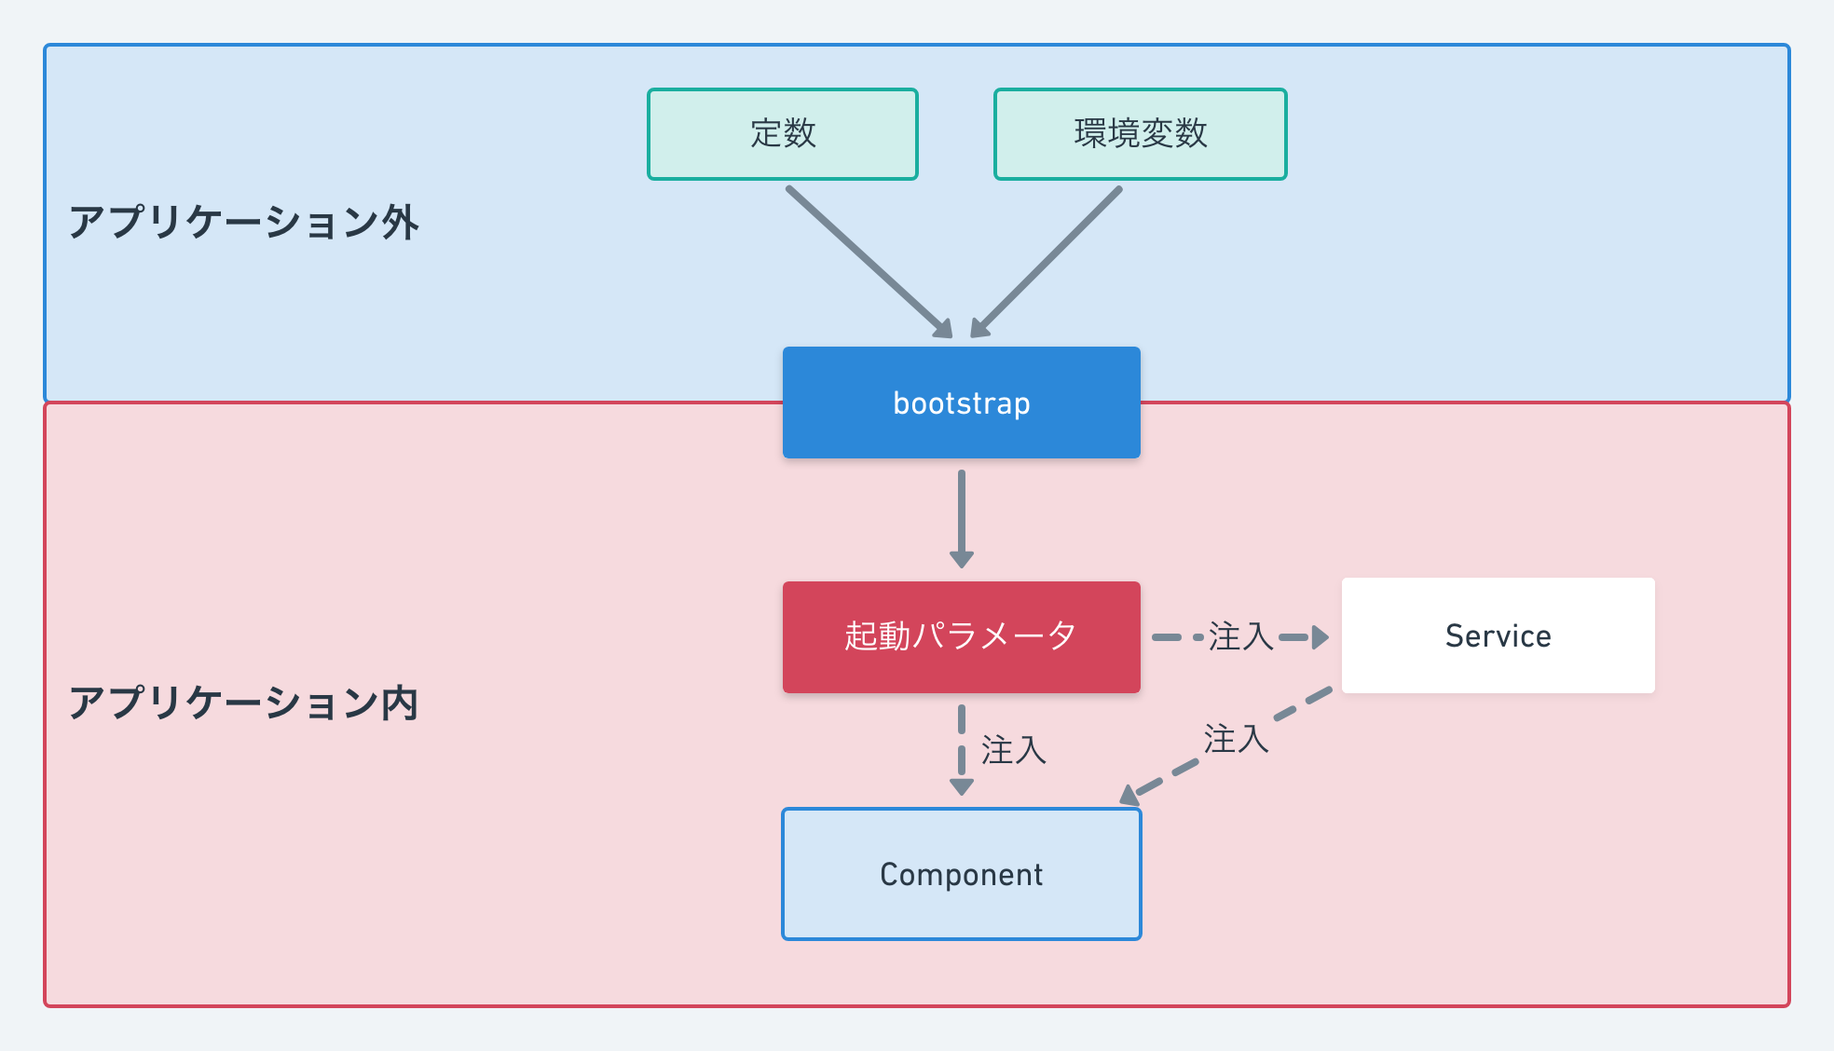
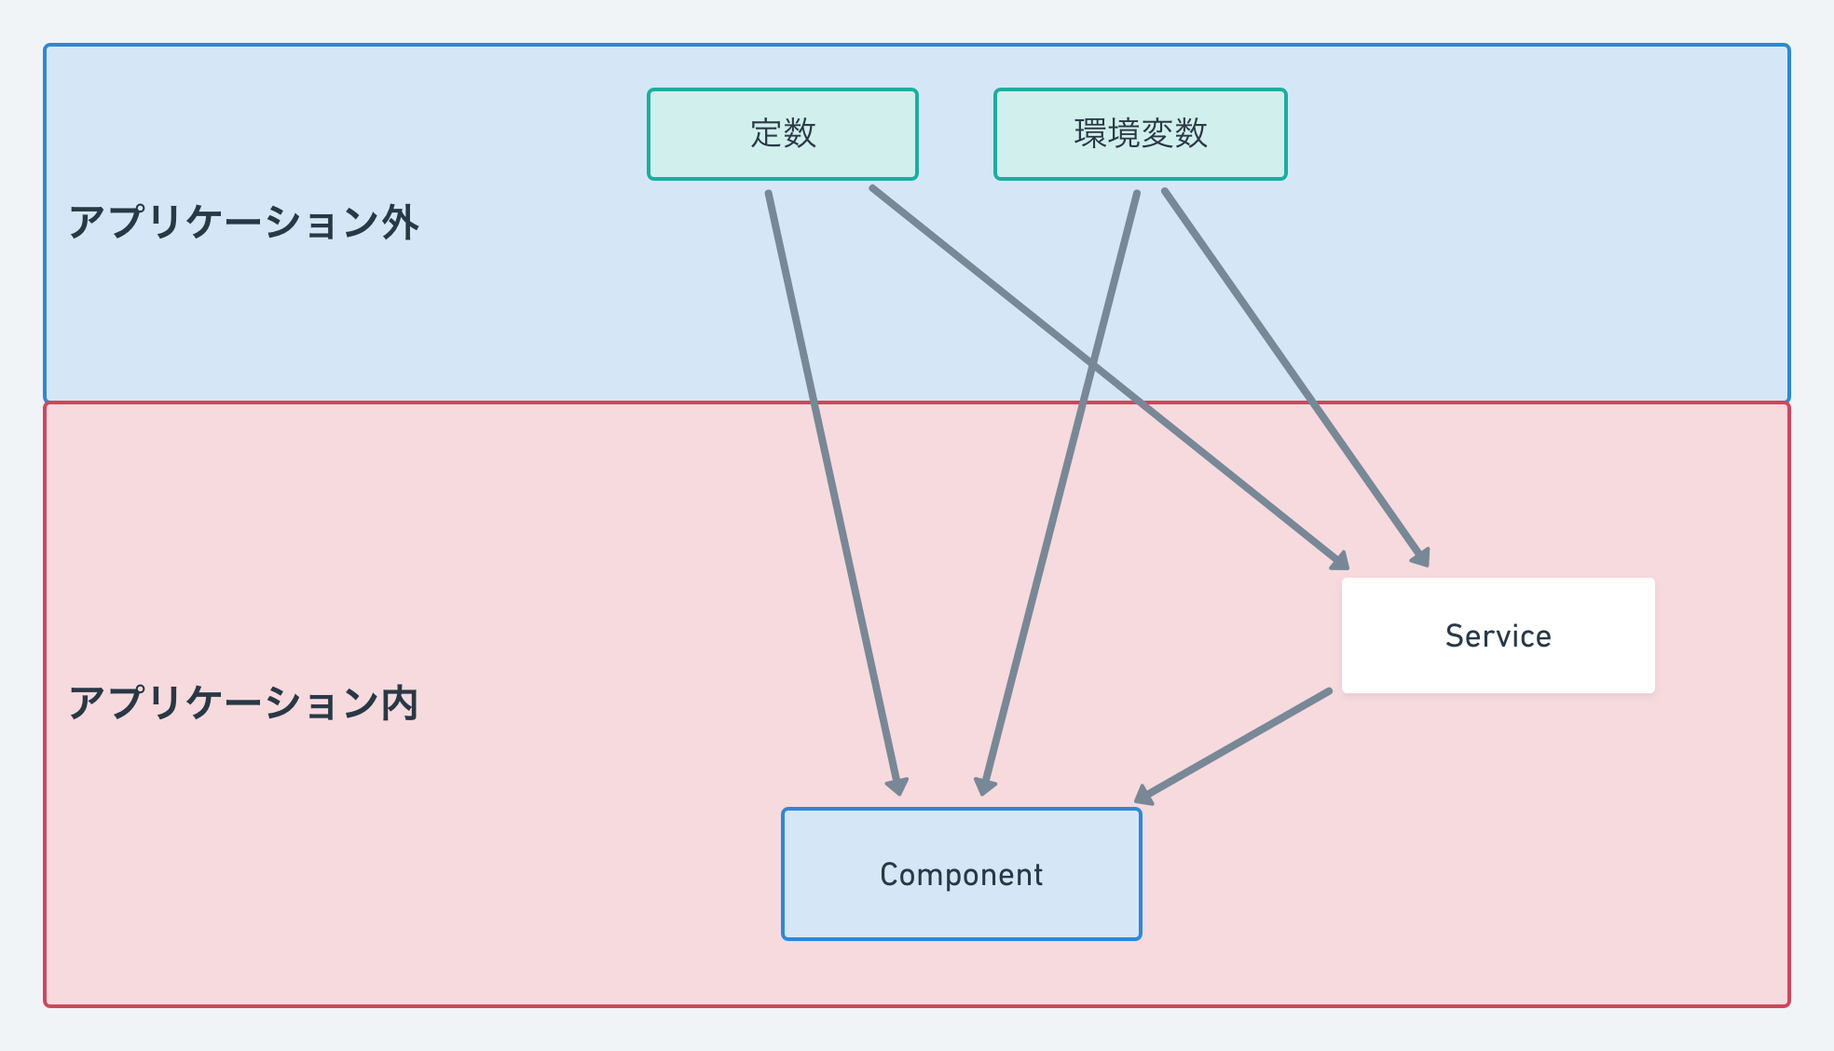
GitBook: [master] 5 pages and 10 assets modified

diff --git a/dependency-injection/provider-types-and-choice.md b/dependency-injection/provider-types-and-choice.md
@@ -1,0 +1,188 @@
+# プロバイダーの種類と選び方
+
+この章の内容を理解するには以下の前提知識が必要です。
+
+* [公式チュートリアルのサービスの章](https://angular.jp/tutorial/toh-pt4)を理解していること
+* Angularの[依存性の注入](https://angular.jp/guide/dependency-injection)の概要を理解していること
+* Angularの[DIプロバイダー](https://angular.jp/guide/dependency-injection-providers)の概要を理解していること
+
+AngularのDIには4種類のプロバイダーがあります。それぞれに目的があり、適した用途があります。チュートリアルでは述べられていない、プロバイダーの選び方の指針を理解しましょう。
+
+## Q. 提供したいものはオブジェクトですか？
+
+提供したいものがクラスのインスタンスではなく単なるオブジェクトなら、アプリケーションコンフィグの章で述べたように  `InjectionToken` をトークンとする**値プロバイダー**を使いましょう。
+
+{% page-ref page="app-config.md" %}
+
+```typescript
+import { InjectionToken } from '@angular/core';
+
+export const SOME_VALUE = new InjectionToken('someValue', {
+  providedIn: 'root',
+  factory: () => someValue,
+});
+```
+
+## Q. 提供したいものは関数の戻り値ですか？
+
+実行時に値が確定する動的なオブジェクトを提供したい場合には2つの選択肢があります。ひとつはシンプルに**あなたが**関数を呼び出し、その戻り値を **値プロバイダー** に渡す方法です。もうひとつは、**ファクトリープロバイダー** を使って、Angularに**値の作り方**を教える方法です。次の例では2つのプロバイダーは実質的に同じ結果を生みます。
+
+```typescript
+import { InjectionToken } from '@angular/core';
+
+export function getSomeValue(): SomeValue {
+  return someValue;
+}
+
+export const SOME_VALUE_1 = new InjectionToken<SomeValue>('someValue', {
+  providedIn: 'root',
+  factory: () => getSomeValue(), // 関数の結果をAngularに渡します
+});
+
+export const SOME_VALUE_2 = new InjectionToken<SomeValue>('someValue', {
+  providedIn: 'root',
+  factory: getSomeValue, // ファクトリー関数をAngularに渡します    
+});
+```
+
+もしファクトリー関数が依存する引数が完全にAngularから切り離されている場合は、結果だけをアプリケーションに関連付ける値プロバイダーのほうがシンプルに済むでしょう。それはつまり、 `getSomeValue` 関数がAngularに依存しないユニットテストを記述できる状態だということです。
+
+逆に、ファクトリー関数がひとつでも**Angularやアプリケーションが提供する他のサービスへの依存性**をもつ場合、つまり**ファクトリー関数の引数でDIをおこないたい**ときにはファクトリープロバイダー以外の選択肢はありません。次の例では、Angularの `PLATFORM_ID` APIに依存した関数をファクトリープロバイダーに渡しています。ファクトリー関数内で依存性を注入するには `inject` 関数を使います。
+
+```typescript
+import { InjectionToken, inject, PLATFORM_ID } from '@angular/core';
+import { isPlatformBrowser } from '@angular/common';
+
+export function getSomeValue(): SomeValue {
+  const platformId = inject(PLATFORM_ID); // 依存性の注入をおこなう
+  if (isPlatformBrowser(platformId)) {
+    return someValueForBrowser;
+  }
+  return someValue;
+}
+
+export const SOME_VALUE = new InjectionToken<SomeValue>('someValue', {
+  providedIn: 'root',
+  factory: getSomeValue,
+});
+```
+
+{% hint style="warning" %}
+ファクトリープロバイダーはどんな値でも自由に解決して提供できる強力なプロバイダーですが、その分ソースコードの可読性やメンテナンス性を損なう危険性もあります。**ファクトリープロバイダーでないと解決できないものはほとんどありません。**
+
+基本的には、**依存性を持てない値プロバイダー**と、**すべての依存性をDIで解決できるクラスプロバイダー**の2つだけを使うように心がけることを推奨します。
+{% endhint %}
+
+## Q. 提供したいものはクラスインスタンスですか？
+
+クラスインスタンスを提供したい場合には3つの選択肢があります。第一に**クラスプロバイダー**を利用してインスタンス化をAngularに委譲する方法、第二に**ファクトリープロバイダー**を使ってあなたがインスタンス化をおこなう方法、第三にあなたがインスタンス化したインスタンスオブジェクトを**値プロバイダー**で提供する方法です。しかし、**原則として常にクラスプロバイダーを使うべき**です。なぜならクラスプロバイダーで提供可能な状態にクラスを保つことが結果的にアプリケーションのテスタビリティやモジュール性を維持することにつながるからです。
+
+{% hint style="info" %}
+サードパーティSDKの抽象化の例のように、プラットフォームに依存するプロバイダーについては例外的な実装が好ましい場面もあります。
+{% endhint %}
+
+{% page-ref page="external-sdk-abstraction.md" %}
+
+### シンプルなクラスプロバイダー
+
+クラスの**コンストラクタ引数がすべてDIで解決できる**場合、あるいは**コンストラクタ引数を持たない**場合は、クラスに `@Injectable` デコレーターを付与するだけで、ファクトリー関数について考慮する必要はありません。
+
+```typescript
+import { Injectable } from '@angular/core';
+
+@Injectable({ providedIn: 'root' })
+export class SomeClassWithDeps {
+  constructor(childDep: ChildDep) {}
+}
+
+@Injectable({ providedIn: 'root' })
+export class SomeClassWithoutDeps {
+  constructor() {}
+}
+```
+
+### DIで解決できない引数があるときには？
+
+クラスの中にはDIで解決できないコンストラクタ引数を受け取りたいものもあります。たとえば `window` や `document` のようなオブジェクトや、環境変数などから導かれる設定値が考えられます。そのようなクラスは、理論的には次のようにファクトリープロバイダーを使ってインスタンス化することができるでしょう。
+
+```typescript
+import { Injectable, inject } from '@angular/core';
+import { HttpClient } from '@angular/common/http';
+
+// ファクトリー関数
+export function someClassFactory(): SomeClass {
+  const httpClient = inject(HttpClient);
+  const userAgent = navigator.userAgent;
+  return new SomeClass(httpClient, userAgent);
+}
+
+@Injectable({
+  providedIn: 'root',
+  factory: someClassFactory,
+})
+export class SomeClass {
+  // HttpClientとUserAgent文字列に依存する
+  constructor(httpClient: HttpClient, userAgent: string) {}
+}
+```
+
+確かにこのプロバイダーは正しく動作しますが非効率的なコードです。`SomeClass` クラスのコンストラクタ引数が増えるたびに、ファクトリー関数にも手を加える必要があります。そしてDIによる解決が必要な引数かどうかは開発者の頭の中にしか答えがありません。また、ファクトリー関数の中にある `navigator.userAgent` は暗黙的な依存性であり、`someClassFactory` のテストのためにモック化するのが困難です。そして何よりも避けたいのは、ソースコードの中でクラスプロバイダーで提供されるクラスとそうでないクラスが混在することで**一貫性を失う**ことです。
+
+このようなケースでは、次の例のように `userAgent` 引数もDIで解決できるように**別のプロバイダーを作る**べきです。そして `SomeClass` は他のサービスと同じようにクラスプロバイダーで提供します。
+
+{% code-tabs %}
+{% code-tabs-item title="providers/user-agent.ts" %}
+```typescript
+import { InjectionToken } from '@angular/core';
+
+export const USER_AGENT = new InjectionToken('userAgent', {
+  providedIn: 'root',
+  factory: () => navigator.userAgent,
+});
+```
+{% endcode-tabs-item %}
+{% endcode-tabs %}
+
+{% code-tabs %}
+{% code-tabs-item title="services/some-class.ts" %}
+```typescript
+import { Injectable, Inject } from '@angular/core';
+import { HttpClient } from '@angular/common/http';
+import { USER_AGENT } from '../providers/user-agent';
+
+@Injectable({ providedIn: 'root' })
+export class SomeClass {
+  constructor(httpClient: HttpClient, @Inject(USER_AGENT) userAgent: string) {}
+}
+```
+{% endcode-tabs-item %}
+{% endcode-tabs %}
+
+Tree-shakableプロバイダーは NgModuleの `providers` 配列に同じトークンのプロバイダーを宣言することで簡単に上書きできます。上記の例でUserAgent文字列を変えたテストをする場合は次のように記述できます。
+
+{% code-tabs %}
+{% code-tabs-item title="services/some-class.spec.ts" %}
+```typescript
+describe('SomeClass', () => {
+  beforeEach(() => {
+    let some: SomeClass;
+    TestBed.configureTestingModule({
+      providers: [
+        SomeClass, // rootとは別のインスタンスを作成する
+        {
+          provide: USER_AGENT,
+          useValue: 'For Testing'
+        }
+      ]
+    });
+    some = TestBed.get(SomeClass);
+  });
+});
+```
+{% endcode-tabs-item %}
+{% endcode-tabs %}
+
+ここまでの内容をまとめると、次の図のようになります。新しくプロバイダーを宣言するときに参考にしてください。
+
+![](../.gitbook/assets/image%20%283%29.png)
+

diff --git a/dependency-injection/app-config.md b/dependency-injection/app-config.md
@@ -5,6 +5,11 @@
 * [公式チュートリアルのサービスの章](https://angular.jp/tutorial/toh-pt4)を理解していること
 * Angularの[依存性の注入](https://angular.jp/guide/dependency-injection)の概要を理解していること
 
+{% hint style="info" %}
+**\[追記: 2019/03/13\]**  
+値プロバイダーの宣言方法を、Tree-Shakableプロバイダーを使った手法に変更しました。
+{% endhint %}
+
 ## アプリケーションコンフィグ
 
 多くのアプリケーションは実行時の振る舞いを柔軟に制御するために、**定数**や**環境変数**を使って設定を管理しています。たとえば、APIサーバーのベースURLを開発環境とプロダクション環境で切り替えるためには、環境ごとに固有の文字列を使うように設計します。あるいは、外部サービスのAPIキーや、アプリケーションのタイトルなども同様でしょう。ブラウザのUserAgentのように実行の初期段階で決定するものも、ある種の環境変数といえます。
@@ -24,11 +29,11 @@
 
 アプリケーションコンフィグを扱う際のよくある失敗は、**アプリケーションのいろんな場所から直接参照してしまう**ことです。Angularのアプリケーションで考えると、コンポーネントやサービスのそれぞれがアプリケーションコンフィグに直接依存する状態です。コンポーネントやサービス単体でのテストができず、設定値を変化させたテストを書くことができません。また、設定値が増えたり、名前や形式が変わったときに変更しなければならないモジュールも増えます。
 
-![](../.gitbook/assets/image%20%287%29.png)
+![](../.gitbook/assets/image%20%289%29.png)
 
 アプリケーション外とアプリケーション内が複雑に絡み合ったこの状態を解決するために、**依存性の注入（DI）**を活用しましょう。アプリケーションのブートストラップ時にコンフィグをDIに取り入れ、設定値がコンポーネントやサービスへ動的に注入されるようにします。その具体的な方法についてこれから学びます。
 
-![](../.gitbook/assets/image%20%285%29.png)
+![](../.gitbook/assets/image%20%287%29.png)
 
 ## 値プロバイダー（Value Provider）
 
@@ -66,37 +71,20 @@ export const APP_TITLE = new InjectionToken<string>('appTitle');
 {% endcode-tabs-item %}
 {% endcode-tabs %}
 
-次に `APP_TITLE` トークンに値を提供するプロバイダーを作成します。同じ `app-title.ts` ファイルに次のようにプロバイダー関数を定義します。引数で受け取った文字列を値プロバイダーの `useValue` プロパティにセットしています。
+次に `APP_TITLE` トークンに値を提供するプロバイダーを作成します。`InjectionToken` の第2引数で、 `APP_TITLE` をアプリケーション全体で有効にする `providedIn: 'root'` の設定と、その値の指定をします。
 
 ```typescript
-export function provideAppTitle(appTitle: string) {
-  return [
-    {
-      provide: APP_TITLE,
-      useValue: appTitle,
-    }
-  ];
-}
+import { config } from '../../config';
+
+export const APP_TITLE = new InjectionToken<string>('appTitle', {
+  providedIn: 'root',
+  factory: () => config.appTitle,
+});
 ```
 
-最後に AppModule の `providers` 配列に `provideAppTitle` 関数の戻り値を加えます。ここまで全く結合していなかったコンフィグとアプリケーションが、AppModuleの上でだけ関係を持ちます。AppModuleを境界として**アプリケーションの中と外を分離**し、**アプリケーション内部からはコンフィグについてまったく関心を持たない**ようにできました。
+`AppModule` の `providers` フィールドではなく、**トークンが自律的に**プロバイダーを宣言します。これは [**Tree-Shakable プロバイダー**](https://angular.jp/guide/dependency-injection-providers#tree-shakable-providers) ****と呼ばれるものです。NgModuleから静的に参照されないことがプロダクションビルドで不必要なコードを除去する際の助けとなります。
 
-{% code-tabs %}
-{% code-tabs-item title="app.module.ts" %}
-```typescript
-import { config } from '../config';
-import { provideAppTitle } from './providers/app-title';
-
-@NgModule({
-  ...
-  providers: [
-    provideAppTitle(config.appTitle),
-  ]
-})
-export class AppModule { }
-```
-{% endcode-tabs-item %}
-{% endcode-tabs %}
+ここまで全く結合していなかったコンフィグとアプリケーションが、DIを通じて関係を持ちました。DIを境界として**アプリケーションの中と外を分離**し、**アプリケーション内部からはコンフィグについてまったく関心を持たない**ようにできました。
 
 コンポーネントやサービスでは、次のように `@Inject` デコレーターを使うことで `APP_TITLE` トークンに紐付いた値をコンストラクタ引数として注入します。
 
@@ -144,51 +132,32 @@ export class AppComponent {
 
 ここまでの内容が理解できたら次のステップに進みましょう。コンフィグの内容が増えてくると、それぞれに独立したプロバイダーとトークンを定義するのは面倒です。コンフィグは基本的に一箇所で管理されるものですから、変更のタイミングが同じだとすれば個別に管理される必要もありません。アプリケーションコンフィグをまとめて管理する `AppConfig` を導入してみましょう。
 
-先ほどの `app-title.ts` ファイルを `app-config.ts` ファイルにリネームし、次のように変更します。注目すべきポイントは、 `InjectionToken` のインスタンスがなくなり、 **`AppConfig` 抽象クラス**が定義されたことと、その**抽象クラスが値プロバイダーのトークンに使われている**ことです。
+先ほどの `app-title.ts` ファイルを `app-config.ts` ファイルにリネームし、次のように変更します。注目すべきポイントは、 `InjectionToken` のインスタンスがなくなり、 **`AppConfig` 抽象クラス**が定義されたことと、その**抽象クラスの値プロバイダーを`@Injectable` で宣言している**ことです。
 
 {% code-tabs %}
 {% code-tabs-item title="app-config.ts" %}
 ```typescript
+import { Injectable } from '@angular/core';
+import { config } from '../../config';
+
+const appConfig: AppConfig = {
+  appTitle: config.appTitle;
+};
+
+@Injectable({
+  providedIn: 'root',
+  useValue: appConfig
+})
 export abstract class AppConfig {
   readonly appTitle: string;
 }
-
-export function provideAppConfig(appConfig: AppConfig) {
-  return [
-    {
-      provide: AppConfig,
-      useValue: appConfig
-    }
-  ];
-}
 ```
 {% endcode-tabs-item %}
 {% endcode-tabs %}
 
-プロバイダーのトークンに使えるのはJavaScriptとして実体のあるオブジェクトだけです。つまり、TypeScriptのトランスパイル前にしか存在しない `interface` や `type` はトークンになりません。しかし**抽象クラスはトランスパイル後にもクラスとして残る**ため、トークンとして使うことができます。また、`AppConfig` はクラス型であると同時にインターフェースとしても使えるため、オブジェクトを受け取る引数にもなります。
+プロバイダーのトークンに使えるのはJavaScriptとして実体のあるオブジェクトだけです。つまり、TypeScriptのトランスパイル前にしか存在しない `interface` や `type` はトークンになりません。しかし**抽象クラスはトランスパイル後にもクラスとして残る**ため、トークンとして使うことができます。
 
-この変更によりAppModuleは次のようになります。 `provideAppConfig` 関数にコンフィグから取得した値を渡しています。
-
-{% code-tabs %}
-{% code-tabs-item title="app.module.ts" %}
-```typescript
-import { config } from '../config';
-import { provideAppConfig } from './providers/app-config';
-
-@NgModule({
-  ...
-  providers: [
-    provideAppConfig({
-      appTitle: config.appTitle
-    }),
-  ]
-})
-export class AppModule { }
-```
-{% endcode-tabs-item %}
-{% endcode-tabs %}
-
-大きく変わるのは注入をおこなう側です。クラス型をトークンにしたため、 `@Inject` はもう必要ありません。クラスプロバイダーで提供されたクラスと同じように `AppConfig` 型をトークンとして注入できます。
+この変更により、注入をおこなう側も影響を受けます。クラス型をトークンにしたため、 `@Inject` はもう必要ありません。クラスプロバイダーで提供されたクラスと同じように `AppConfig` 型をトークンとして注入できます。
 
 {% code-tabs %}
 {% code-tabs-item title="app.component.ts" %}

diff --git a/dependency-injection/external-sdk-abstraction.md b/dependency-injection/external-sdk-abstraction.md
@@ -187,5 +187,5 @@ platformBrowserDynamic([
 
 回りくどい実装に見えるかもしれませんが、グローバル変数に依存するコードを最小限に抑えることで、ユニットテストが可能な範囲を広げています。そして将来的にAngular Universalを導入することになっても `platformServer` にサーバー用のプロバイダーを追加するだけで、アプリケーション側には一切変更を加える必要がありません。次の図のように、**プラットフォームごとの差異をアプリケーション内外の境界で吸収する**ような設計が、アプリケーション内のメンテナンス性を高めるポイントです。
 
-![](../.gitbook/assets/image%20%283%29.png)
+![](../.gitbook/assets/image%20%285%29.png)
 

diff --git a/the-first-refactoring/get-started.md b/the-first-refactoring/get-started.md
@@ -64,7 +64,7 @@ export class AppComponent {
 {% endcode-tabs-item %}
 {% endcode-tabs %}
 
-![&#x30E6;&#x30FC;&#x30B6;&#x30FC;&#x30EA;&#x30B9;&#x30C8;](../.gitbook/assets/image%20%286%29.png)
+![&#x30E6;&#x30FC;&#x30B6;&#x30FC;&#x30EA;&#x30B9;&#x30C8;](../.gitbook/assets/image%20%288%29.png)
 
 {% embed url="https://stackblitz.com/edit/angular-i8x98w?file=src%2Fapp%2Fapp.component.html" %}
 

diff --git a/SUMMARY.md b/SUMMARY.md
@@ -25,4 +25,5 @@
 
 * [アプリケーションコンフィグの管理](dependency-injection/app-config.md)
 * [サードパーティSDKの抽象化](dependency-injection/external-sdk-abstraction.md)
+* [プロバイダーの種類と選び方](dependency-injection/provider-types-and-choice.md)
 
